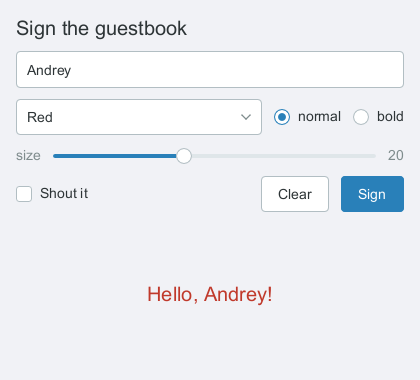
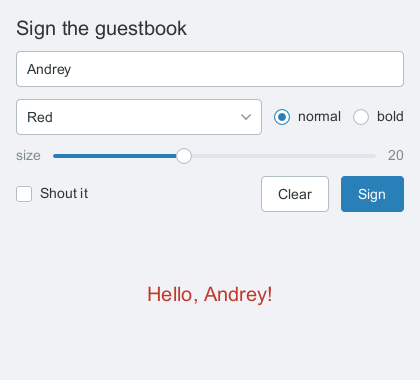
fix(style): a field is exactly as tall as the button beside it (#327)
docs/styling.md has promised this in so many words for a while: a
<textinput>'s box is its capitals rather than its line box, so padding it
with the palette's paddingY gives "exactly the height a <Button> and a
<Select> have, because all three are now the same sum". It was off by one,
and on XQuartz that is what makes a composer look wrong beside its Send.

The cap band reached yoga as a float. A <textinput> is a leaf whose measure
*is* the band, so the float went into its outer height and was rounded up
there, while a <Button>'s label is a trimmed <text> that lands on a whole
pixel first. Rounding the band where it is measured makes the two agree.

Why nobody noticed: the two only disagree when the cap height's fraction is
below a half. The face the tests have always used, KaTeX_Main-Regular, has a
fraction of .562 and agrees either way. Arial is .028 and Helvetica the
same, so every field in every example was a pixel too tall on macOS and
nothing in CI could see it. test/control-heights.test.js therefore uses
KaTeX_Fraktur-Regular, whose .206 lands on the wrong side of the half —
swap it back for Main and the test passes with the bug present, which is
worth knowing before anyone tidies the fixture.

The suite is unchanged otherwise: 1385 tests, and the six macOS-only
appearance failures that were already there.

Also brings two examples onto the documented recipe. tasks.jsx and
widgets.jsx have padded their fields with a hand-picked 8 since they were
[…]

Changed region(s): [[0.031, 0.1737, 0.9595, 0.2316]]

diff --git a/test/control-heights.test.js b/test/control-heights.test.js
@@ -1,0 +1,91 @@
+// A field is as tall as the button beside it.
+//
+// docs/styling.md promises this in so many words: a `<textinput>`'s box is
+// its capitals rather than its line box, so padding it with the palette's
+// `paddingY` gives "exactly the height a `<Button>` and a `<Select>` have,
+// because all three are now the same sum". It was off by one.
+//
+// The cap band reached yoga as a float. A `<textinput>` is a leaf whose
+// measure *is* the band, so that float went into its outer height and was
+// rounded up there; a `<Button>`'s label is a trimmed `<text>` and lands on a
+// whole pixel first. The two agree when the cap height's fraction is above a
+// half and disagree by one when it is below, which is why this went unseen:
+// **the face these tests have always used has a fraction of .562**, and the
+// system faces a user actually sees do not. Arial is .028 and Helvetica
+// likewise, so on XQuartz every field in every example was a pixel too tall.
+//
+// Hence the deliberately odd choice of face below. It is not about Fraktur;
+// it is the one in the fixtures whose cap height lands on the wrong side of
+// the half. Swap it for KaTeX_Main-Regular and these tests pass whether or
+// not the bug is present, which is how it survived this long.
+import { test, afterEach } from 'node:test';
+import assert from 'node:assert/strict';
+import path from 'node:path';
+import { createRequire } from 'node:module';
+import React from 'react';
+
+import { renderX11, cleanup, screen } from '../src/testing/index.js';
+import { Button } from '../src/index.js';
+
+const require = createRequire(import.meta.url);
+const fontsDir = path.join(
+  path.dirname(require.resolve('katex/package.json')),
+  'dist',
+  'fonts',
+);
+/** cap height 10.206 at 14px — fraction .206, below the half. */
+const FONTS = {
+  'sans-serif': path.join(fontsDir, 'KaTeX_Fraktur-Regular.ttf'),
+};
+/** cap height 9.562 — fraction .562, above it. Agrees either way. */
+const FONTS_EVEN = {
+  'sans-serif': path.join(fontsDir, 'KaTeX_Main-Regular.ttf'),
+};
+
+const h = React.createElement;
+
+afterEach(cleanup);
+
+/** The recipe docs/styling.md gives, and nothing else. */
+const FIELD = {
+  paddingTop: '$paddingY',
+  paddingBottom: '$paddingY',
+  paddingLeft: 10,
+  paddingRight: 10,
+  borderWidth: '$borderWidth',
+  borderColor: '$border',
+};
+
+const row = () =>
+  h(
+    'box',
+    { style: { flexDirection: 'row', alignItems: 'center', gap: 8 } },
+    h('textinput', { placeholder: 'field', style: FIELD }),
+    h(Button, null, 'Send'),
+  );
+
+test('a field padded with $paddingY is exactly a Button tall', async () => {
+  await renderX11(row(), { width: 400, height: 120, fonts: FONTS });
+
+  const field = screen.getByPlaceholder('field');
+  const button = screen.getByRole('button');
+
+  assert.equal(
+    field.abs.height,
+    button.abs.height,
+    `field ${field.abs.height} vs button ${button.abs.height}`,
+  );
+});
+
+test('and on a face whose cap height rounds the other way', async () => {
+  await renderX11(row(), { width: 400, height: 120, fonts: FONTS_EVEN });
+
+  const field = screen.getByPlaceholder('field');
+  const button = screen.getByRole('button');
+  assert.equal(field.abs.height, button.abs.height);
+});
+
+// Not tested here, though it was the obvious thing to write: that the band
+// itself is a whole number. `contentBox()` rounds on the way out, so the
+// assertion held while the float was still reaching yoga underneath it —
+// green either way, and no use to anyone.

diff --git a/examples/widgets.jsx b/examples/widgets.jsx
@@ -168,9 +168,15 @@ export function WidgetsPanel() {
           placeholder="Type here…"
           style={{
             flexGrow: 1,
-            padding: 8,
-            borderRadius: 4,
-            borderWidth: 1,
+            // The palette's control padding: this is the gallery, so a field
+            // that is not the same height as the buttons above it is the one
+            // thing this file must not show.
+            paddingTop: '$paddingY',
+            paddingBottom: '$paddingY',
+            paddingLeft: 10,
+            paddingRight: 10,
+            borderRadius: '$radius',
+            borderWidth: '$borderWidth',
             borderColor: '$border',
             backgroundColor: '$surface',
           }}

diff --git a/examples/tasks.jsx b/examples/tasks.jsx
@@ -68,9 +68,15 @@ function AddTask() {
         onSubmit={add}
         style={{
           flexGrow: 1,
-          padding: 8,
-          borderRadius: 4,
-          borderWidth: 1,
+          // The palette's control padding, which is what makes this field
+          // exactly as tall as the Add button beside it: a field's box is
+          // its capitals, so this is the same sum the button is.
+          paddingTop: '$paddingY',
+          paddingBottom: '$paddingY',
+          paddingLeft: 10,
+          paddingRight: 10,
+          borderRadius: '$radius',
+          borderWidth: '$borderWidth',
           borderColor: '$border',
           backgroundColor: '$background',
         }}

diff --git a/src/nodes.js b/src/nodes.js
@@ -5404,7 +5404,7 @@ export class TextInputNode extends Node {
     const cap = this.app?.fonts
       ?.match?.(style.family, { weight: style.weight, style: style.style })
       ?.metrics?.(style.size)?.capHeight;
-    return cap || this._lineHeight();
+    return cap ? Math.round(cap) : this._lineHeight();
   }
 
   /** Shaped layout of the current value, cached per (value, style).
